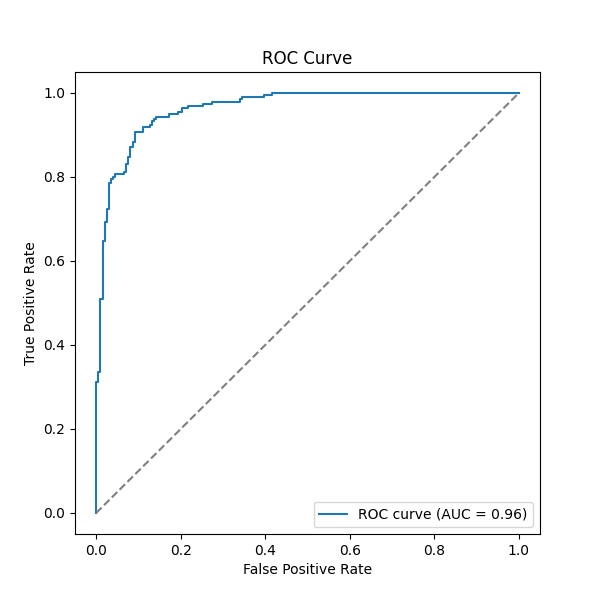
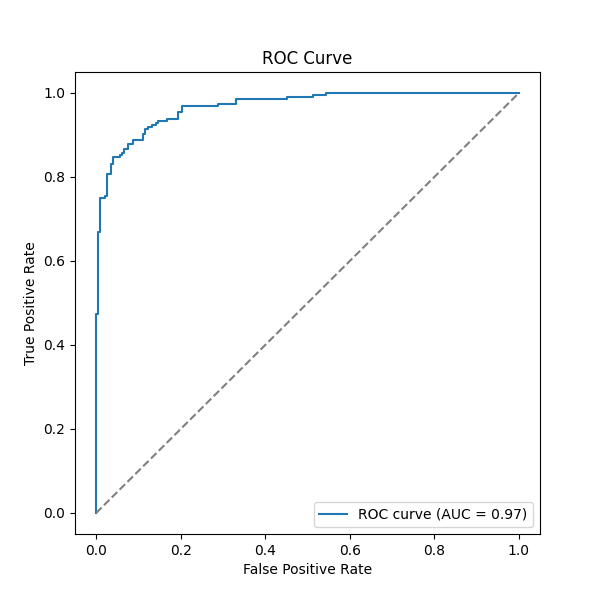
added the new clip trainer

diff --git a/main.py b/main.py
@@ -133,10 +133,13 @@ class JIVICataractSystem:
                 self.clip_trainer = CLIPTrainer(device=self.device)
                 # Use train_with_mlflow method
                 config = {
-                    "data_path": "processed_images",
+                    "input_paths": {
+                        "normal": "processed_images/train/normal",
+                        "cataract": "processed_images/train/cataract"
+                    },
                     "n_frozen_layers": 10,
                     "num_epochs": 5,
-                    "lr": 1e-4,
+                    "learning_rate": 1e-4,
                     "batch_size": 32,
                     "val_split": 0.2
                 }
@@ -149,7 +152,17 @@ class JIVICataractSystem:
             self.logger.info("🔄 Training LGBM model...")
             try:
                 self.lgbm_trainer = LGBMTrainer(device=self.device)
-                config = {"input_paths": {"normal": "processed_images/train/normal", "cataract": "processed_images/train/cataract"}, "augment": True, "n_aug": 3, "method": "crop", "test_path": "processed_images/test"}
+                config = {
+                    "input_paths": {
+                        "normal": "processed_images/train/normal", 
+                        "cataract": "processed_images/train/cataract"
+                    },
+                    "augment": True, 
+                    "n_augmentations": 3, 
+                    "augmentation_method": "crop", 
+                    "test_path": "processed_images/test",
+                    "test_inference": False  # Disable test inference to avoid prob_cataract error
+                }
                 self.lgbm_trainer.train_with_mlflow(config)
                 self.logger.info("✅ LGBM training completed successfully")
             except Exception as e:
